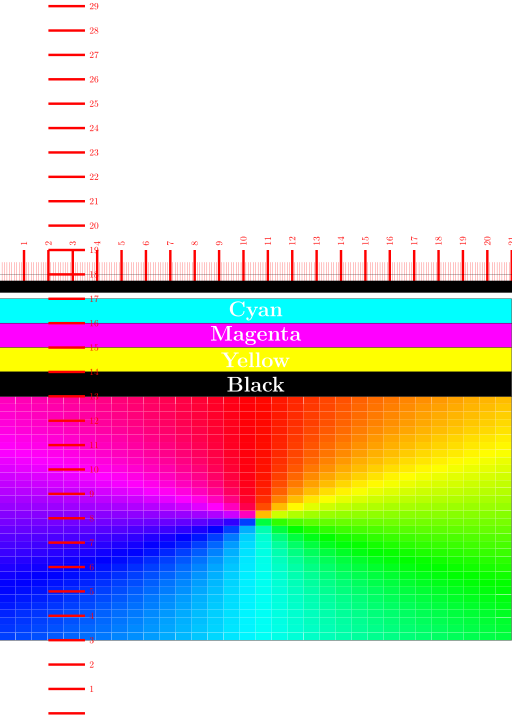
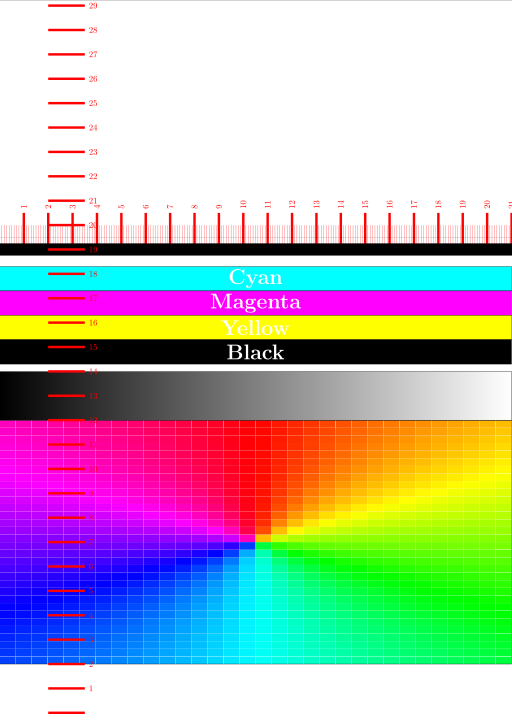
Update printer test page with gray shading

diff --git a/documents/printer-testpage/printer-testpage.tex b/documents/printer-testpage/printer-testpage.tex
@@ -1,6 +1,5 @@
-\documentclass[a4paper]{scrartcl}
-\usepackage[a4paper,margin=0cm,left=-0.65cm]{geometry}
-\usepackage{amssymb,amsmath}
+\documentclass[a4paper]{article}
+\usepackage[a4paper,margin=0cm,left=-0.8cm,showframe]{geometry}
 
 \usepackage[rgb]{xcolor}
 \usepackage{tikz}
@@ -8,16 +7,17 @@
 
 \begin{document}
 \begin{tikzpicture}
-    \begin{scope}[yshift=3cm]
-        \draw[shading=color wheel] (0,0) rectangle (20.998,10);
+    \begin{scope}[yshift=2cm]
+        \draw[shading=color wheel] (0,0) rectangle (\paperwidth,10);
+        \draw[shading=axis,left color=black, right color=white,minimum width=\paperwidth] (0,10) rectangle (\paperwidth,12);
     \end{scope}
-    \begin{scope}[yshift=3cm]
-        \draw[rectangle,fill=cyan] (0,13) rectangle (20.998,14) node[pos=.5,text=white] {\Huge \textbf{Cyan}};
-        \draw[rectangle,fill=magenta] (0,12) rectangle (20.998,13) node[pos=.5,text=white] {\Huge \textbf{Magenta}};
-        \draw[rectangle,fill=yellow] (0,11) rectangle (20.998,12) node[pos=.5,text=white] {\Huge \textbf{Yellow}};
-        \draw[rectangle,fill=black] (0,10) rectangle (20.998,11) node[pos=.5,text=white] {\Huge \textbf{Black}};
+    \begin{scope}[yshift=14.3cm]
+        \draw[rectangle,fill=cyan] (0,3) rectangle (\paperwidth,4) node[pos=.5,text=white] {\Huge \textbf{Cyan}};
+        \draw[rectangle,fill=magenta] (0,2) rectangle (\paperwidth,3) node[pos=.5,text=white] {\Huge \textbf{Magenta}};
+        \draw[rectangle,fill=yellow] (0,1) rectangle (\paperwidth,2) node[pos=.5,text=white] {\Huge \textbf{Yellow}};
+        \draw[rectangle,fill=black] (0,0) rectangle (\paperwidth,1) node[pos=.5,text=white] {\Huge \textbf{Black}};
     \end{scope}
-    \begin{scope}[yshift=17.5cm]
+    \begin{scope}[yshift=19.0cm]
       \foreach \x in {1,2,...,21}
       \draw [color=red, line width=1mm](\x cm,0cm) -- (\x cm,1.5cm)
       node[color=red, rotate=90, anchor=west] {\pgfmathprint{int(\x)}};
@@ -26,8 +26,8 @@
       \draw [color=red, line width=0.1mm](\x mm,0cm) -- (\x mm,1.0cm)
       node[color=red, rotate=90, anchor=west] {};
 
-      \draw[line width=5mm](0cm, 0cm) -- (100,0cm);
-      \draw[line width=0.1mm](0cm, 0.5cm) -- (100,0.5cm);
+      \draw[line width=5mm](0cm, 0cm) -- (22,0cm);
+      \draw[line width=0.1mm](0cm, 0.5cm) -- (22,0.5cm);
     \end{scope}
 
     \draw [color=red, line width=1mm](2cm,0 cm) -- (3.5cm,0 cm)
